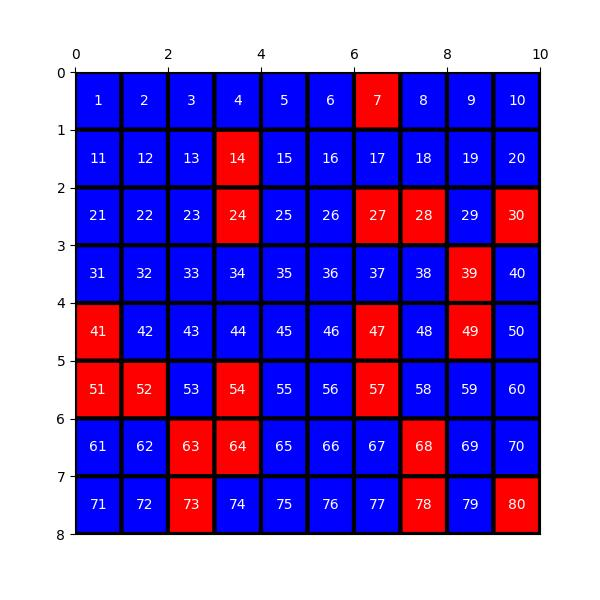
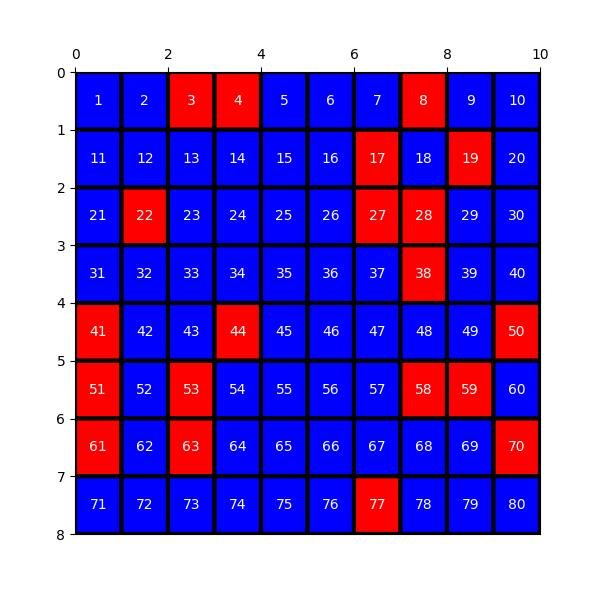
add table

diff --git a/templates/bingo_ok.html b/templates/bingo_ok.html
@@ -105,12 +105,18 @@
     <div id="Demo6" class="w3-hide w3-container">
         <p>{{noopen_num|safe}}</p>
     </div>
+    <button onclick="myFunction('Demo7')" class="w3-button w3-block w3-blue w3-left-align">開獎表格</button>
+    <div id="Demo7" class="w3-hide w3-container">
+        <img src="{{ url_for('static', filename= './images/numb.jpg') }}"  alt="" style="width:100%"/>
+    </div>
 
-    
+
     <p>熱門球號圖：</p>
     <img src="{{ url_for('static', filename= './images/test1.jpg') }}"  alt="" style="width:100%"/>
     <p>最新五期開獎：</p>
     <img src="{{ url_for('static', filename= './images/test2.jpg') }}"  alt="" style="width:100%"/>
+
+
 
     <script>
         function myFunction(id) {

diff --git a/test.py b/test.py
@@ -1,3 +1,18 @@
+from flask import Flask, render_template, request, redirect, url_for, make_response,jsonify
+from werkzeug.utils import secure_filename
+from datetime import timedelta
+import requests
+from bs4 import BeautifulSoup
+import numpy as np
+import matplotlib as mpl
+import matplotlib.pyplot as plt 
+from matplotlib import colors
+from matplotlib.pyplot import MultipleLocator
+import seaborn as sns
+from collections import Counter
+from itertools import combinations
+import cv2
+
 
 #27
 num_data=[
@@ -10,51 +25,66 @@ num_data=[
 ,[6, 7, 10, 15, 18, 25, 26, 27, 33, 34, 43, 47, 51, 59, 62, 64, 65, 67, 72, 73]
 ,[1, 2, 4, 7, 10, 13, 16, 17, 22, 33, 37, 41, 42, 45, 46, 50, 61, 64, 69, 70]
 ,[4, 6, 9, 15, 17, 20, 24, 27, 31, 32, 38, 41, 47, 50, 52, 53, 54, 55, 58, 59]
-,[1, 3, 11, 14, 16, 17, 20, 33, 34, 37, 43, 49, 50, 54, 57, 58, 64, 65, 74, 78]
-,[1, 5, 8, 9, 13, 15, 16, 17, 29, 31, 32, 37, 45, 48, 58, 63, 71, 72, 73, 76]
-,[4, 23, 24, 25, 26, 33, 37, 43, 45, 47, 50, 51, 52, 55, 59, 61, 63, 72, 76, 79]
-,[6, 8, 9, 10, 17, 25, 34, 36, 38, 42, 45, 47, 53, 57, 64, 66, 67, 68, 72, 79]
-,[9, 13, 21, 25, 27, 28, 29, 30, 34, 41, 42, 50, 51, 58, 61, 62, 63, 64, 74, 76]
-,[3, 17, 19, 20, 21, 22, 24, 25, 29, 31, 41, 43, 49, 50, 53, 63, 68, 69, 73, 74]
-,[3, 9, 10, 11, 18, 23, 25, 31, 33, 34, 40, 42, 44, 45, 48, 52, 70, 71, 73, 75]
-,[1, 6, 8, 14, 23, 25, 28, 29, 37, 38, 45, 48, 53, 54, 55, 57, 65, 70, 74, 76]
-,[4, 10, 12, 22, 23, 24, 27, 30, 32, 37, 38, 40, 41, 45, 46, 50, 56, 58, 63, 71]
-,[3, 5, 9, 12, 14, 15, 21, 23, 26, 33, 35, 37, 38, 41, 43, 46, 58, 60, 69, 72]
-,[4, 10, 17, 19, 23, 24, 25, 32, 37, 41, 42, 47, 53, 55, 60, 62, 63, 64, 67, 73]
-,[5, 8, 16, 18, 27, 35, 41, 42, 46, 47, 50, 51, 55, 56, 58, 62, 67, 75, 76, 77]
-,[4, 6, 15, 16, 23, 27, 36, 43, 46, 48, 49, 54, 57, 59, 62, 64, 73, 74, 75, 76]
-,[7, 13, 14, 15, 16, 19, 20, 26, 35, 37, 47, 51, 53, 58, 60, 64, 66, 67, 72, 77]
-,[1, 4, 9, 11, 16, 17, 29, 33, 41, 43, 45, 49, 50, 52, 53, 58, 70, 71, 77, 78]
-,[4, 6, 7, 9, 15, 18, 23, 24, 33, 41, 43, 45, 47, 48, 59, 64, 65, 66, 77, 80]
-,[1, 4, 11, 15, 17, 18, 19, 22, 23, 30, 36, 37, 40, 48, 57, 61, 66, 67, 79, 80]
-,[8, 10, 11, 13, 16, 27, 33, 35, 37, 42, 43, 44, 47, 51, 55, 64, 65, 71, 75, 78]]
+,[1, 3, 11, 14, 16, 17, 20, 33, 34, 37, 43, 49, 50, 54, 57, 58, 64, 65, 74, 78]]
+
+all_num_array_1D=[]
+for k in range(len(num_data)):
+    num_array = [0]*80
+    for i in range(80):
+        if (i+1) in num_data[k]:
+            num_array[i]=1
+    all_num_array_1D.append(num_array)
+
+
+
+plt.figure(figsize=(32,10))
+plt.cla()
+plt.clf()
+cmap = colors.ListedColormap(['Blue','red'])
+plt.pcolor(all_num_array_1D,cmap=cmap,edgecolors='k', linewidths=3)
+
+ax = plt.gca()
+ax.xaxis.set_ticks_position('top')
+ax.set_aspect('equal')
+ax.xaxis.set_major_locator(MultipleLocator(1))
+ax.yaxis.set_major_locator(MultipleLocator(1))
+ax.invert_yaxis() 
+
+# 去除白框
+plt.margins(0,0)
+plt.subplots_adjust(top=1,bottom=0,left=0,right=1,hspace=0,wspace=0)
+# 保存图片，cmap为调整配色方案
+plt.savefig("static/images/numb.jpg")
+
 
 #[1,7,0,1,0,.....]
 
-
-temp_array = []
-for k in range(len(num_data)):
-    b_target = [0]*80
-    for i in range(80):
-        ball_num = i+1
-        if ball_num in num_data[k]:
-            b_target[i] = 1
-        else:
-            b_target[i] = 0
-    temp_array.append(b_target)
-
-b_count = [0]*80
-
-for k in range(80):
-    for i in range(len(temp_array)):
-        if temp_array[i][k]==0:
-            b_count[k]=b_count[k]+1
-        else:
-            break
-
-noopen_b = ""
-for i in range(80):
-    noopen_b = noopen_b + str(i+1)+":"+str(b_count[i])+"\n"
+# temp_array = []
+# for k in range(len(num_data)):
+#     b_target = [0]*80
+#     for i in range(80):
+#         ball_num = i+1
+#         if ball_num in num_data[k]:
+#             b_target[i] = 1
+#         else:
+#             b_target[i] = 0
+#     temp_array.append(b_target)
 
 
-print(noopen_b)
+# b_count = [0]*80
+
+# for k in range(80):
+#     for i in range(len(temp_array)):
+#         if temp_array[i][k]==0:
+#             b_count[k]=b_count[k]+1
+#         else:
+#             break
+
+# noopen_b = ""
+# for i in range(80):
+#     noopen_b = noopen_b + str(i+1)+":"+str(b_count[i])+"\n"
+
+
+# print(noopen_b)
+
+

diff --git a/app.py b/app.py
@@ -214,6 +214,38 @@ def bingo():
         for i in range(80):
             noopen_num = noopen_num + str(i+1)+":"+str(b_count[i])+"</br>"
 
+        
+
+        #開獎表格
+
+        all_num_array_1D=[]
+        for k in range(target):
+            num_array = [0]*80
+            for i in range(80):
+                if (i+1) in num_data[k]:
+                    num_array[i]=1
+            all_num_array_1D.append(num_array)
+
+
+        plt.figure(figsize=(32,10))
+        plt.cla()
+        plt.clf()
+        cmap = colors.ListedColormap(['Blue','red'])
+        plt.pcolor(all_num_array_1D,cmap=cmap,edgecolors='k', linewidths=3)
+
+        ax = plt.gca()
+        ax.xaxis.set_ticks_position('top')
+        ax.set_aspect('equal')
+        ax.xaxis.set_major_locator(plt.MultipleLocator(1))
+        ax.yaxis.set_major_locator(plt.MultipleLocator(1))
+        ax.invert_yaxis() 
+
+        # 去除白框
+        plt.margins(0,0)
+        plt.subplots_adjust(top=1,bottom=0,left=0,right=1,hspace=0,wspace=0)
+        # 保存图片，cmap为调整配色方案
+        plt.savefig("static/images/numb.jpg")
+
 
                     
         
